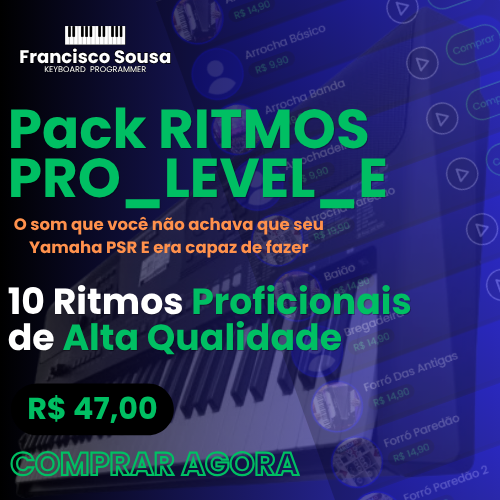
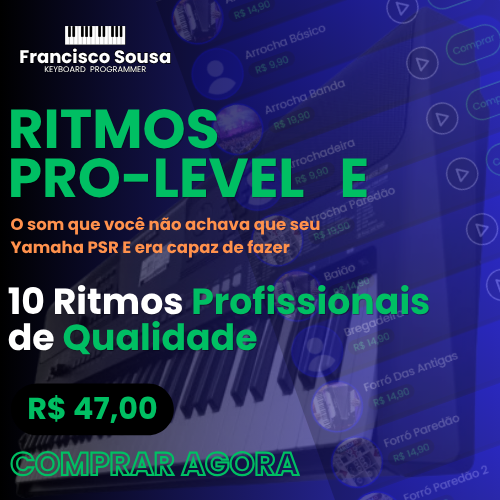
site update

Changed region(s): [[0.0, 0.21, 0.78, 0.51], [0.12, 0.57, 0.87, 0.72]]

diff --git a/ritmos-psr-e.html b/ritmos-psr-e.html
@@ -60,7 +60,7 @@
 
                     <div style="display: flex; flex-direction: column;">
                         <p style="font-weight: bold;">
-                            RITMOS PRO-LEVEL-E
+                            RITMOS PRO-LEVEL E
                         </p>
                         <p style="margin-top: -5px; font-size: 10px;">
                             O som que você não achava que seu Yamaha PSR E era capaz de fazer
@@ -75,7 +75,7 @@
 
                         <button class="btn-comprar"
                             style="border-radius: 10px; width: 150px; font-size: 16px; cursor: pointer; margin: 20px 10px;"
-                            data-nome="Pack 10 Ritmos PRO-LEVEL-E"
+                            data-nome="Pack 10 Ritmos PRO-LEVEL E"
                             data-preco="47,00"
                             data-teclado="PSR-E-EW"
                             data-imagem="img/ritmos_psr_e/PackRitmosProLevelE.png"

diff --git a/confirmacao.html b/confirmacao.html
@@ -167,7 +167,7 @@
         ];
 
         const produtosPix47_00 = [
-            "pack 10 ritmos pro-level-e"
+            "pack 10 ritmos pro-level e"
         ];
 
         const produtosPix67_00 = [
